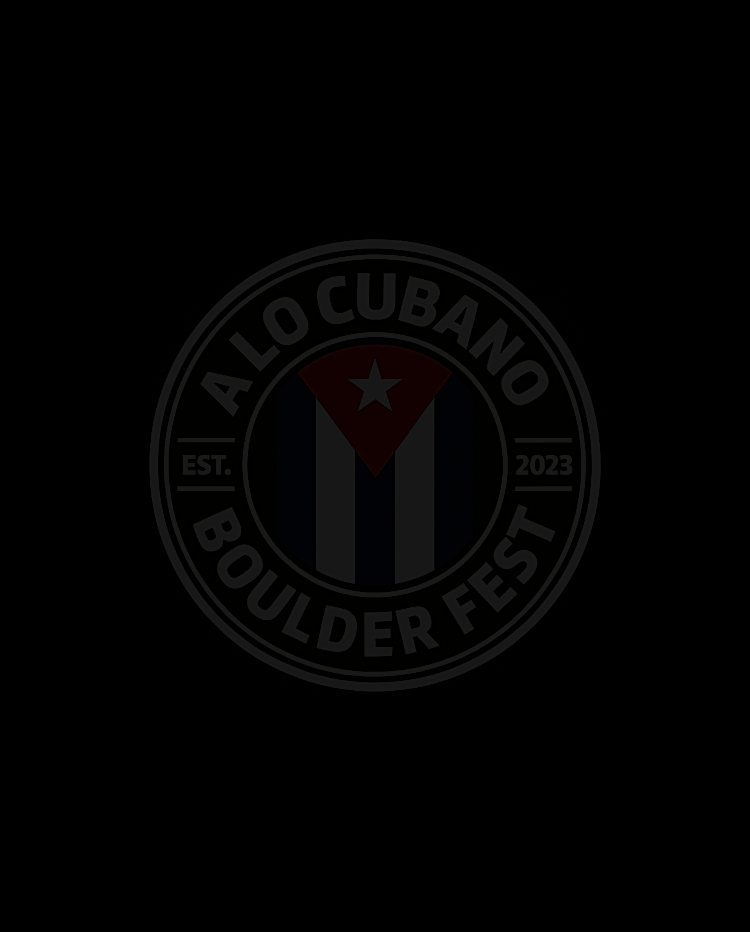
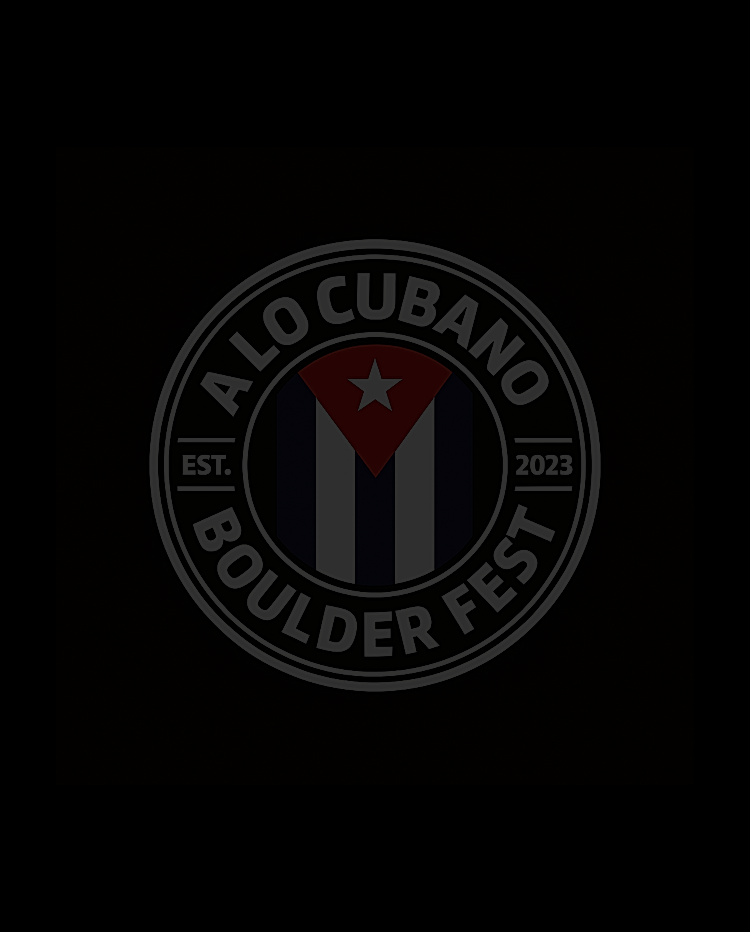
feat(wallet): improve branding and UI on view-tickets page
View Tickets Page Enhancements:
- Increase "YOUR TICKETS" heading font size for better visual hierarchy
- Change info labels (TICKET TYPE, TICKET ID, etc.) to brand blue color
- Remove event date/time from header to simplify layout

Apple Wallet Background Improvements:
- Increase background logo opacity from 10% to 20% for stronger branding
- Update all opacity references in code and comments for accuracy
- Regenerate background images at all resolutions (@1x, @2x, @3x)

The 20% opacity provides better brand visibility while remaining subtle
enough not to interfere with QR codes or pass content. Apple Wallet's
automatic blur effect further softens the watermark.

🤖 Generated with [Claude Code](https://claude.com/claude-code)

Changed region(s): [[0.184, 0.2489, 0.7973, 0.7468]]

diff --git a/public/wallet/generate-wallet-images.js b/public/wallet/generate-wallet-images.js
@@ -117,7 +117,7 @@ async function generateBackground(width, height, logoSize, filename) {
   .png()
   .toBuffer();
 
-  // Resize white logo, sharpen for crisp edges, and reduce opacity to 10%
+  // Resize white logo, sharpen for crisp edges, and reduce opacity to 20%
   const resizedLogo = await sharp(SOURCE_LOGO_DARK)
     .resize(logoSize, logoSize, {
       fit: 'contain',
@@ -128,13 +128,13 @@ async function generateBackground(width, height, logoSize, filename) {
     .raw()
     .toBuffer({ resolveWithObject: true });
 
-  // Manually reduce alpha channel to 10% opacity
+  // Manually reduce alpha channel to 20% opacity
   const { data, info } = resizedLogo;
   const pixels = new Uint8Array(data);
 
   // RGBA format: every 4th byte is alpha
   for (let i = 3; i < pixels.length; i += 4) {
-    pixels[i] = Math.floor(pixels[i] * 0.10); // Reduce alpha to 10%
+    pixels[i] = Math.floor(pixels[i] * 0.20); // Reduce alpha to 20%
   }
 
   // Create PNG from modified raw data
@@ -172,7 +172,7 @@ async function generateBackground(width, height, logoSize, filename) {
     })
     .toFile(outputPath);
 
-  console.log(`  ✓ ${filename} (${width}x${height}, ${logoSize}x${logoSize} logo @ 10% opacity)`);
+  console.log(`  ✓ ${filename} (${width}x${height}, ${logoSize}x${logoSize} logo @ 20% opacity)`);
 }
 
 // Run the generator

diff --git a/pages/core/view-tickets.html b/pages/core/view-tickets.html
@@ -67,7 +67,7 @@
 
       .tickets-header h1 {
         font-family: var(--font-display);
-        font-size: var(--text-5xl);
+        font-size: var(--text-6xl);
         color: var(--color-primary);
         margin-bottom: var(--space-lg);
         text-transform: uppercase;
@@ -159,7 +159,7 @@
       .info-label {
         font-family: var(--font-mono);
         font-size: var(--text-xs);
-        color: var(--color-text-secondary);
+        color: var(--color-primary);
         text-transform: uppercase;
         letter-spacing: 0.05em;
       }
@@ -473,7 +473,6 @@
           <div class="tickets-header">
             <h1>Your Tickets</h1>
             <div class="event-info">
-              <span>📅 May 15-17, 2026 (Mountain Time)</span>
               <span>📍 Avalon Ballroom, Boulder, CO</span>
               <span>🎟 Number of tickets: <span id="total-tickets">0</span></span>
             </div>

diff --git a/lib/apple-wallet-service.js b/lib/apple-wallet-service.js
@@ -645,7 +645,7 @@ export class AppleWalletService {
       const logo3xBuffer = await fs.readFile(logo3xPath);
       pass.addBuffer("logo@3x.png", logo3xBuffer);
 
-      // Background image - full pass watermark (375x466 points, 5% opacity logo)
+      // Background image - full pass watermark (375x466 points, 20% opacity logo)
       // Background won't block QR code (QR overlays the background)
       const backgroundPath = path.join(projectRoot, "public", "wallet", "background.png");
       const backgroundBuffer = await fs.readFile(backgroundPath);
